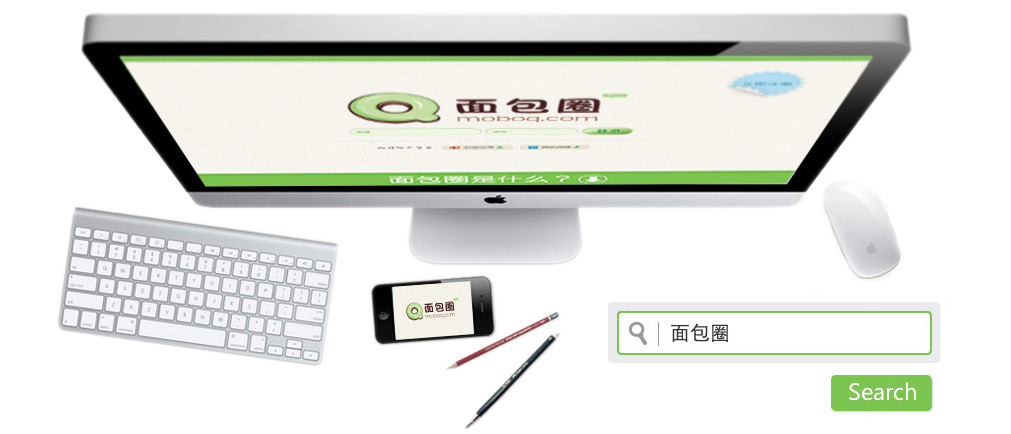
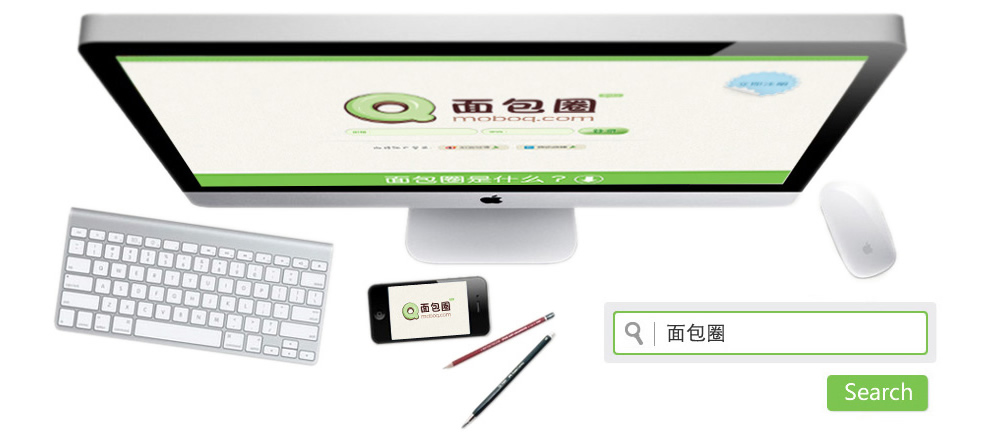
product update

diff --git a/index_en.html b/index_en.html
@@ -39,7 +39,7 @@
       <div class="clear"></div>
     </div>
     <div class="menu_title" id="products"><img src="images/productstit.gif" alt="products" /></div>
-    <div class="products_banner" ></div>
+    <div class="products_banner" ><a href="http://moboq.com/" target="_blank"><img src="images/product.jpg" alt="product" /></a></div>
     <div class="ssq_txt">
       <p style="padding-bottom:15px;">MoboQ <a href="http://moboq.com/" target="_blank" class="fontred">(Moboq.com)</a> is a location-based micro Q&A service based on social media. It aims to provide you the ability to know what's happening anywhere in the world.</p>
       <p>The design of MoboQ is inspired from real problems in our everyday life: when I need to know what is happening right now at somewhere away from me, what shall I do? Moboq provides a novel solution that utilizes the power of social media. Our algorithm searches for “possible answers at the given place right now” on the existing social media platforms (e.g., Weibo) in real-time, and deliver your questions to them. </p>

diff --git a/index.html b/index.html
@@ -40,7 +40,7 @@
       <div class="clear"></div>
     </div>
     <div class="menu_title" id="products"><img src="images/pruduct.gif" alt="products" /></div>
-    <div class="products_banner" ></div>
+    <div class="products_banner" ><a href="http://moboq.com/" target="_blank"><img src="images/product.jpg" alt="product" /></a></div>
     <div class="ssq_txt" style="font-size:16px">
       <p style="padding-bottom:15px;">面包圈<a href="http://moboq.com/" target="_blank" class="fontred">(Moboq.com)</a>是首个基于位置的即时微问答服务, 它让你可以向当前正在任一地点的微博用户们提出问题.</p>
       <p style="padding-bottom:15px;">比如，想去的餐厅是不是人多要排队, 影院某电影现在还有没有票, 商场某个牌子今天有没有打折. 甚至更严肃的场合 --- 某地震受灾区域现在有什么需求, 新闻现场正是什么情况. 没错, 就像我们把你“瞬间传送”到你关心的地点，让你可以向正在那里的路人打听你所关心的事.</p>

diff --git a/css/style.css b/css/style.css
@@ -185,7 +185,6 @@ li {
 .products_banner {
 	width:100%;
 	height:434px;
-	background:url(../images/product.jpg) no-repeat center top;
 	margin:30px auto
 }
 .ssq_txt {
